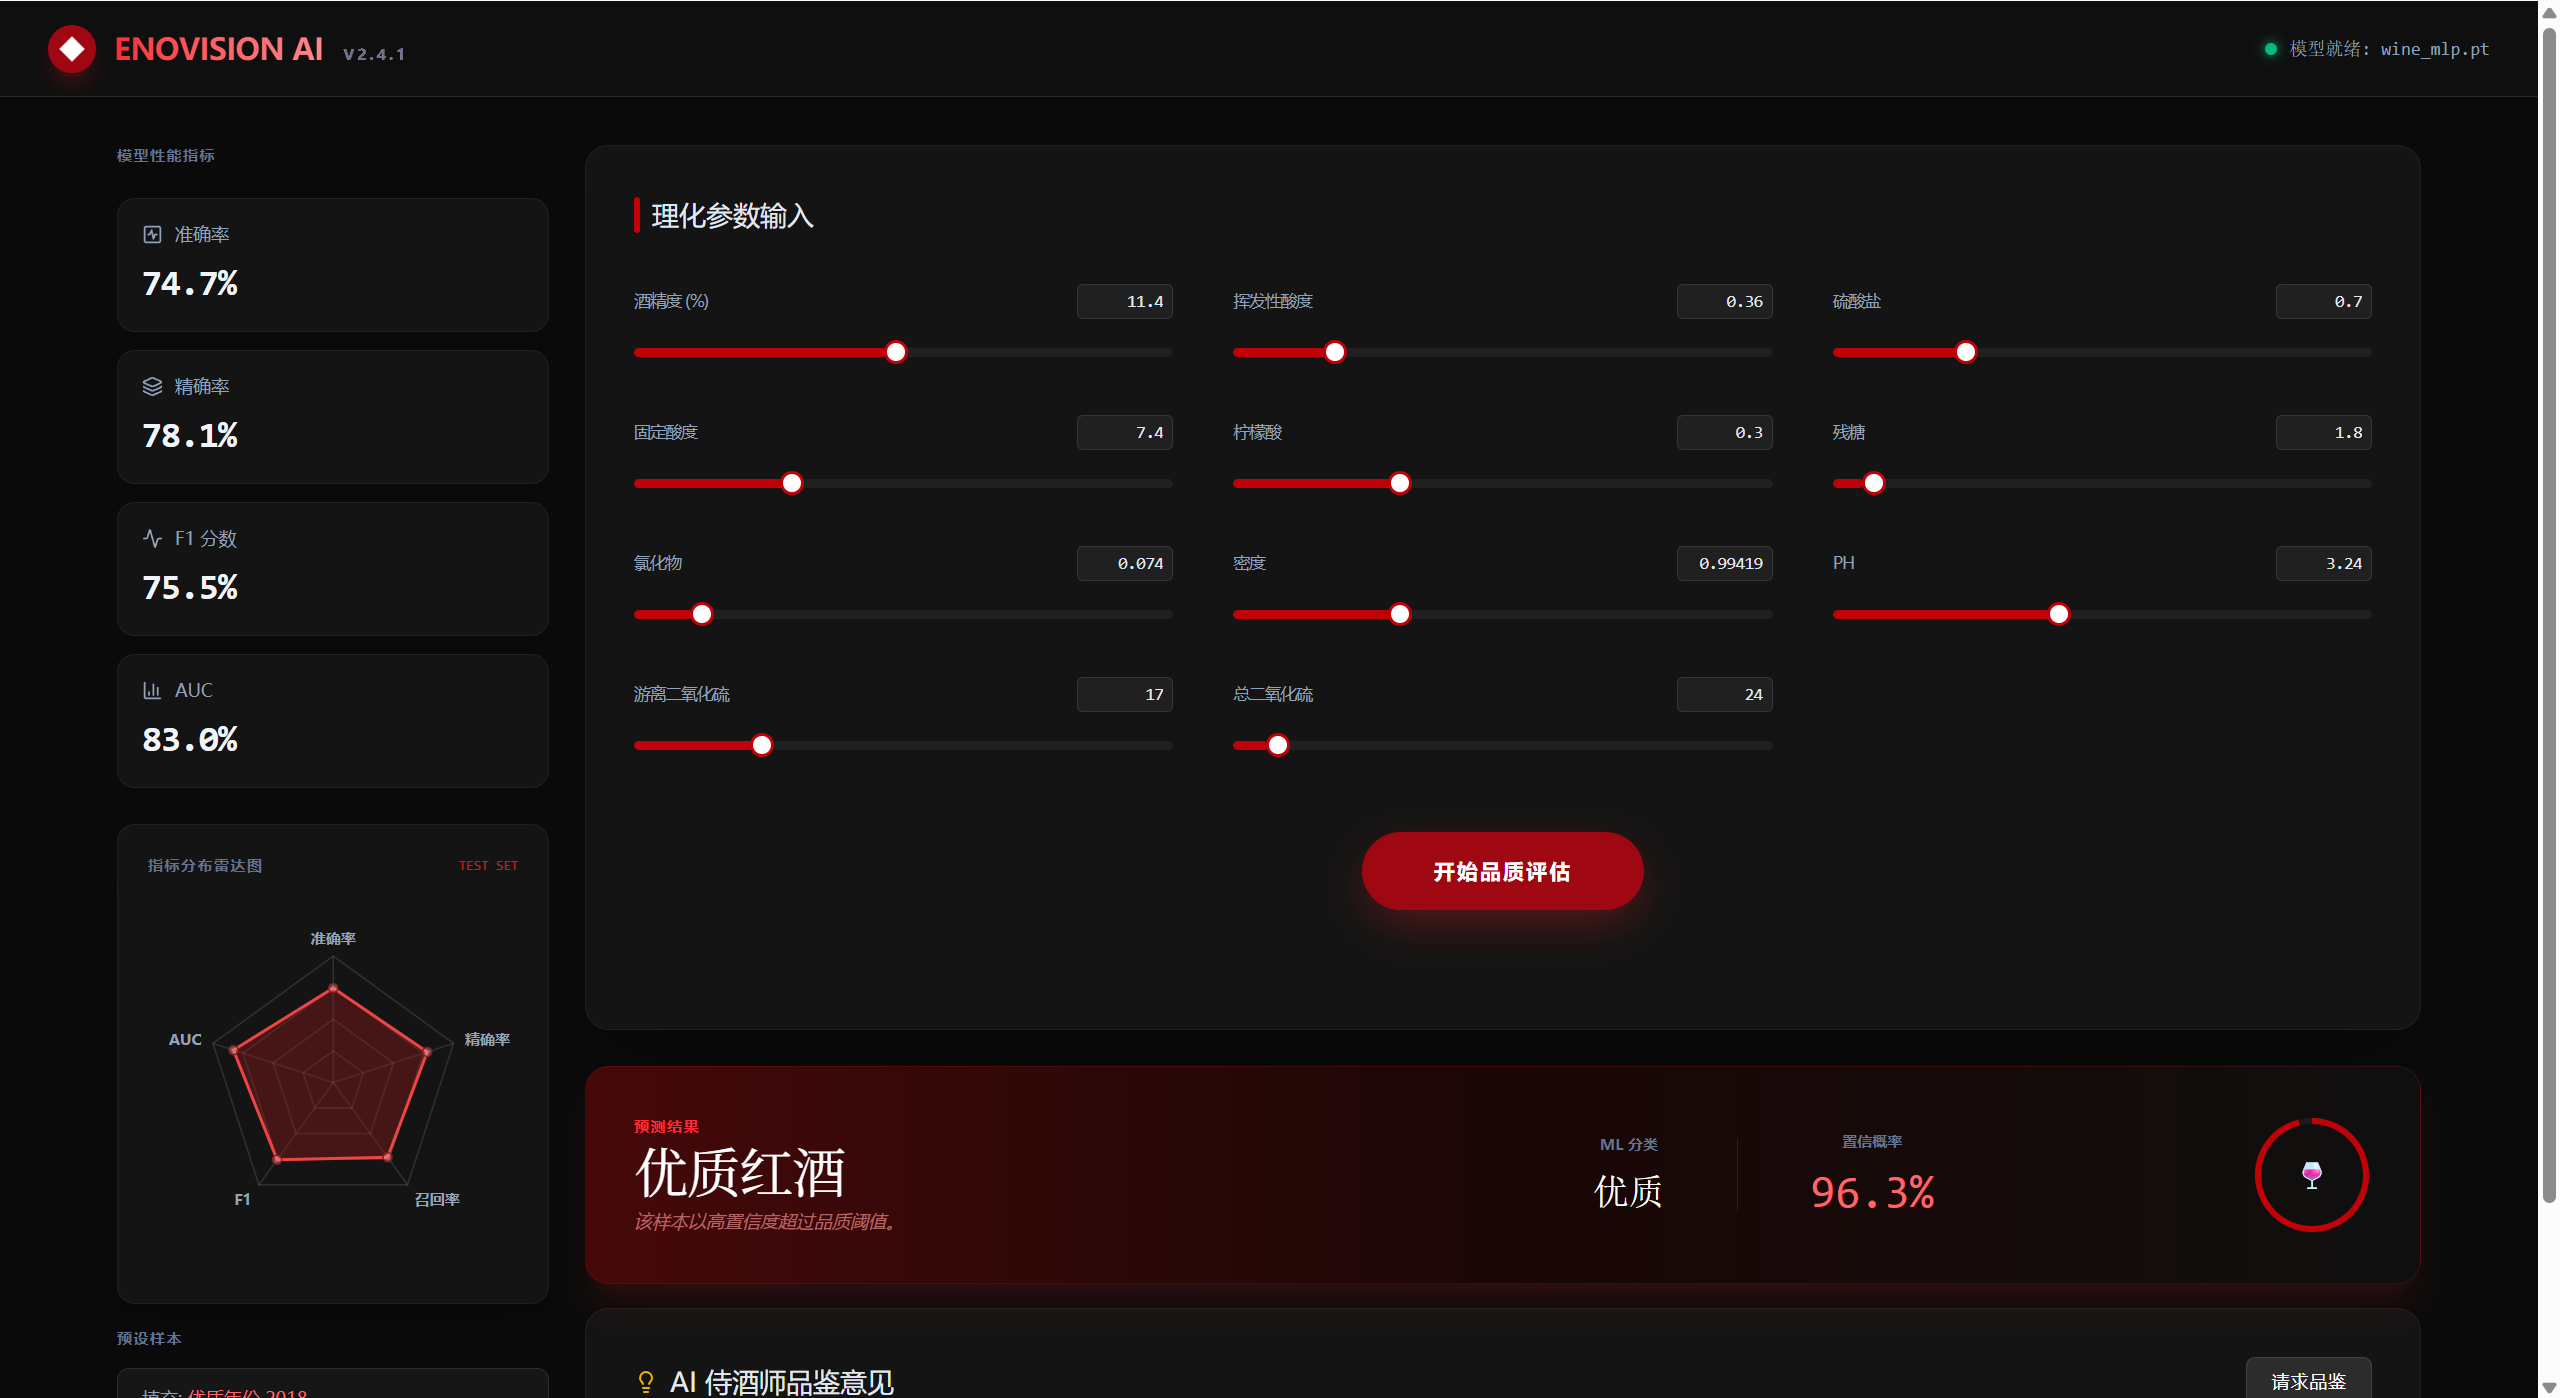
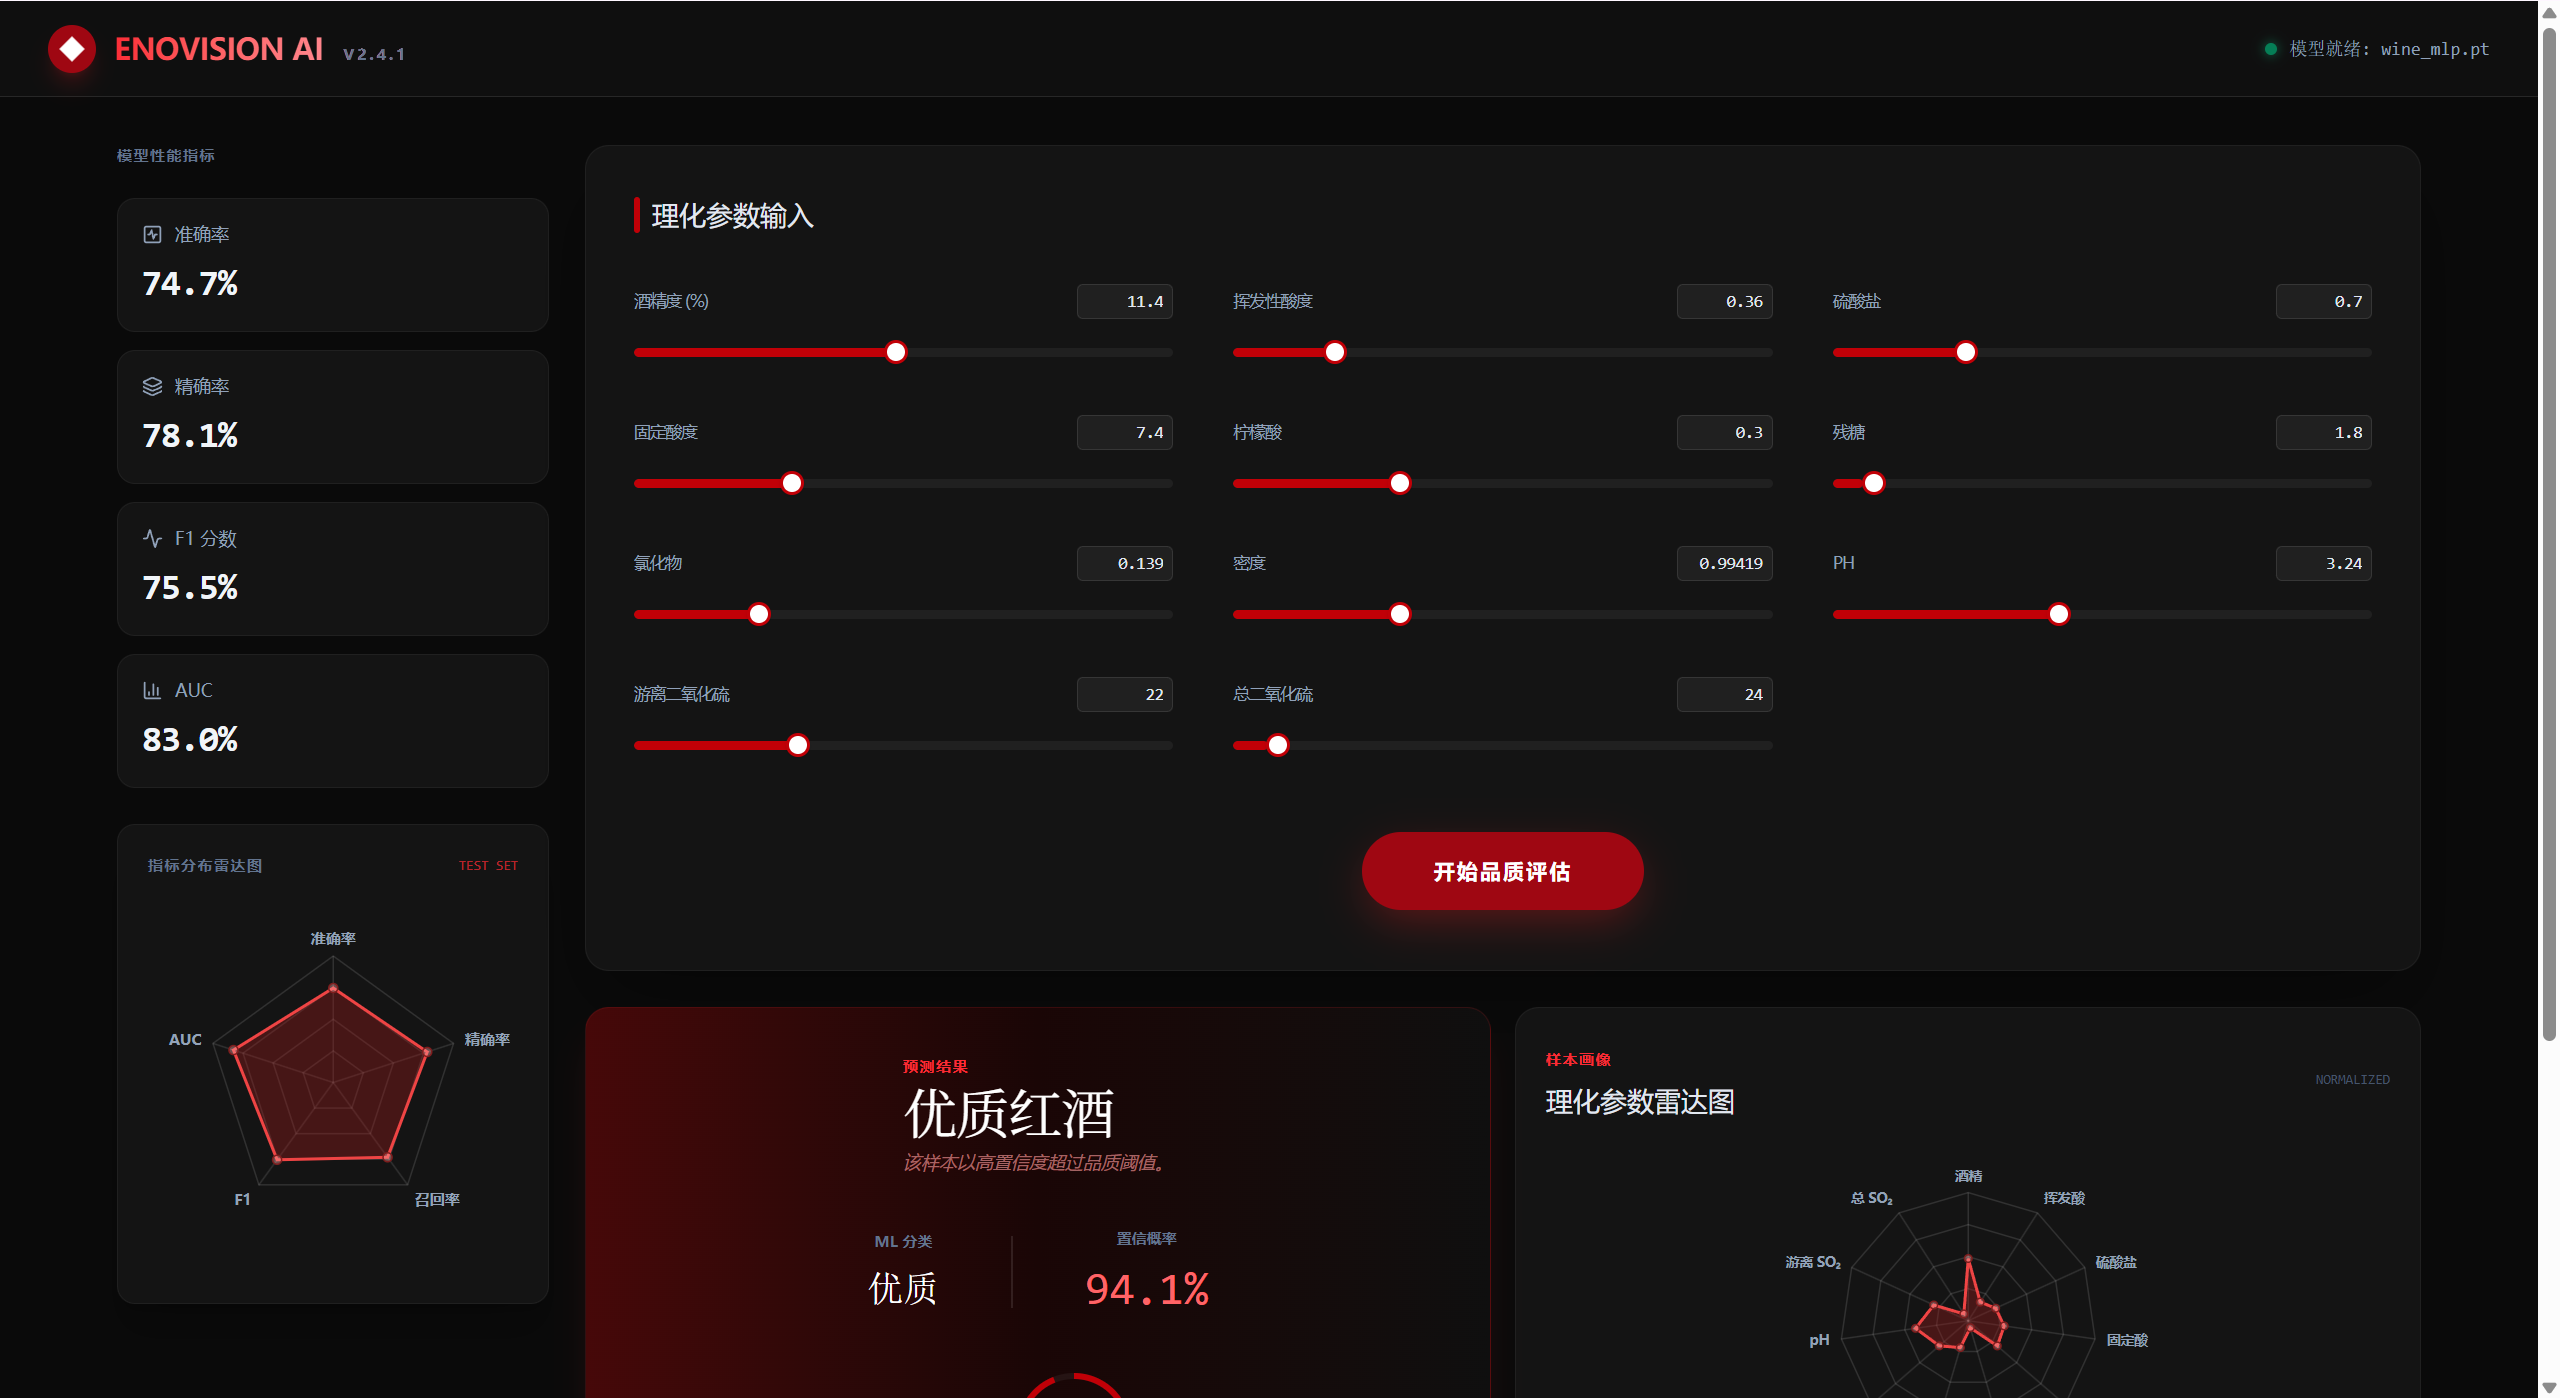
Enhance README with product overview and demo details

diff --git a/README.md b/README.md
@@ -1,84 +1,159 @@
-# Vinum AI - Wine Quality Predictor
+# Vinum AI · 红酒品质智能评估系统
 
-## 项目简介
+> 一个融合机器学习预测、数据可视化与大模型品鉴建议的全栈 AI 项目。
 
-本项目为红酒品质二分类预测器，基于 PyTorch 神经网络，输入红酒的 11 项理化指标（酸度、糖分、酒精度、pH 值等）进行品质预测。前端使用 React 搭建交互式控制面板，通过滑块调节各项指标参数；后端使用 FastAPI 提供推理接口；并接入 DeepSeek API，根据预测结果生成 AI 品鉴意见。
+Vinum AI 以红酒的 11 项理化参数为输入，通过 PyTorch 神经网络判断样本是否达到优质红酒标准，并使用雷达图解释模型性能与样本特征。完成预测后，系统还可以调用 DeepSeek，根据化学指标和模型结果生成自然语言品鉴与餐酒搭配建议。
 
-**主要功能**
-- PyTorch 神经网络：二分类预测红酒品质
-- React 控制面板：滑块调节 11 项理化指标，实时查看预测结果
-- 数据可视化：模型指标分布雷达图与预测置信度展示
-- AI 品鉴：通过 DeepSeek API 自动生成品鉴评语
+这个项目不仅实现了“训练一个模型”，还覆盖了数据处理、模型评估、API 服务、交互界面、AI 能力接入、自动化测试和容器化配置，形成了可以实际运行和演示的完整产品闭环。
 
-**技术栈**
-- 前端：React 19 + Tailwind CSS 4 + Recharts + Radix UI
-- 后端：FastAPI + PyTorch + scikit-learn
-- AI：DeepSeek API（OpenAI 兼容格式）
-- 中间层：Express（TypeScript）+ Vite
+## 项目演示
+
+### 1. 输入理化指标，快速完成品质分类
+
+用户可以通过滑块或数字输入调整酒精度、酸度、残糖、pH、硫酸盐等 11 项指标。界面同步展示测试集模型指标，并将 Accuracy、Precision、Recall、F1 和 AUC 汇总为性能雷达图。
+
+![优质红酒预测界面：理化参数输入、模型指标和优质红酒预测结果](./优质红酒.png)
+
+系统会返回“优质红酒”或“普通红酒”的分类结果，并展示样本属于优质类别的模型输出概率。预测结果旁的理化参数雷达图会把不同量纲的指标归一化，帮助用户直观看到当前样本的化学特征轮廓。
+
+### 2. 对普通样本给出清晰、可解释的结果
+
+同一套交互流程也适用于普通红酒样本。系统不会只显示一个标签，而是同时呈现优质类别概率和当前样本画像，让预测结果更容易理解。
+
+![普通红酒预测界面：普通类别结果及理化参数雷达图](./普通红酒.png)
+
+### 3. 结合 DeepSeek 生成 AI 品酒建议
+
+在机器学习预测的基础上，用户可以进一步请求 AI 侍酒师分析。DeepSeek 会结合具体理化参数、分类结果和模型输出概率，生成关于口感、结构、香气及餐酒搭配的中文建议。
+
+![基于 DeepSeek 生成的 AI 侍酒师品鉴意见](./基于Deepseek的AI品酒建议.png)
+
+## 我在项目中完成了什么
+
+- **机器学习建模**：使用 PyTorch 搭建包含 BatchNorm、ReLU 和 Dropout 的多层感知机，完成红酒品质二分类。
+- **可信训练流程**：采用分层的训练集、验证集、测试集划分；验证集负责选择最佳 F1 模型，测试集只用于最终评估。
+- **可复现性控制**：统一设置 Python、NumPy、PyTorch 与 DataLoader 随机种子，并仅使用训练集拟合 StandardScaler。
+- **全栈产品实现**：使用 FastAPI 提供推理与指标接口，使用 React + TypeScript 构建可交互的预测控制台。
+- **数据可视化**：通过 Recharts 展示模型性能雷达图和 11 项理化参数雷达图。
+- **大模型能力接入**：通过 Express 中间层调用 DeepSeek API，将结构化预测结果转化为易读的品鉴建议。
+- **工程质量建设**：增加输入范围校验、前端异常处理、pytest、Ruff、GitHub Actions、Dockerfile 与 Docker Compose。
+
+## 模型效果
+
+当前仓库内模型使用独立测试集评估，指标文件与保存的最佳模型来自同一次训练流程。
+
+| 指标 | 测试集结果 | 说明 |
+|---|---:|---|
+| Accuracy | 74.7% | 所有样本中预测正确的比例 |
+| Precision | 78.1% | 预测为优质的样本中，实际为优质的比例 |
+| Recall | 73.1% | 实际优质样本中，被模型识别出来的比例 |
+| F1 | 75.5% | Precision 与 Recall 的综合表现 |
+| AUC | 83.0% | 模型区分优质与普通样本的整体能力 |
+
+> 界面中的概率表示模型输出的“优质类别概率”，分类阈值为 50%。它用于表达模型倾向，不等同于经过严格概率校准后的现实发生概率。
+
+## 技术架构
+
+```mermaid
+flowchart LR
+    A["React 交互界面"] --> B["Express 中间层"]
+    B --> C["FastAPI 推理服务"]
+    C --> D["PyTorch MLP 模型"]
+    C --> E["StandardScaler"]
+    B --> F["DeepSeek API"]
+    D --> B
+    F --> A
+```
+
+| 模块 | 技术选型 |
+|---|---|
+| 前端 | React 19、TypeScript、Tailwind CSS 4、Motion、Recharts、Radix UI |
+| 中间层 | Express、Vite、TypeScript |
+| 后端 | FastAPI、Pydantic、Uvicorn |
+| 机器学习 | PyTorch、scikit-learn、pandas、NumPy、joblib |
+| AI 品鉴 | DeepSeek API（OpenAI 兼容接口） |
+| 工程化 | pytest、Ruff、GitHub Actions、Docker Compose |
 
 ## 项目结构
 
+```text
+WineQualityPredictor/
+├── backend/
+│   ├── data/                 # 红酒数据集
+│   ├── src/                  # 数据处理、模型、训练、评估和 FastAPI 服务
+│   ├── tests/                # 后端自动化测试
+│   ├── metrics.json          # 最佳模型在独立测试集上的指标
+│   └── Dockerfile
+├── frontend/
+│   ├── src/                  # React 界面与类型定义
+│   ├── server.ts             # API 代理与 DeepSeek 接入
+│   └── Dockerfile
+├── .github/workflows/ci.yml  # 自动化检查与构建
+├── docker-compose.yml
+└── start.bat                 # Windows 一键启动
 ```
-├── frontend/          # React + Vite + Express (TypeScript)
-│   ├── src/           # React 组件与类型定义
-│   ├── server.ts      # Express 中间层 (API 代理 + AI 侍酒师)
-│   └── package.json
-├── backend/           # Python ML 后端
-│   ├── src/           # PyTorch 模型、训练脚本、FastAPI 服务
-│   ├── data/          # 红酒数据集
-│   └── requirements.txt
-├── start.bat          # Windows 一键启动脚本
-└── README.md
+
+## 快速体验
+
+### Windows 一键启动
+
+准备 Python 3.9+ 和 Node.js 18+，双击运行：
+
+```text
+start.bat
 ```
 
-## 快速开始
+脚本会自动检查依赖、按需训练模型、启动后端并验证健康状态，随后在 `http://localhost:3000` 提供前端页面。
 
-### 前置条件
+如需使用 AI 品鉴功能，请复制 `frontend/.env.example` 为 `frontend/.env`，并填写：
 
-- Python 3.9+
-- Node.js 18+
-
-### 一键启动 (Windows)
-
-双击运行 `start.bat`
+```env
+DEEPSEEK_API_KEY=your_api_key_here
+```
 
 ### 手动启动
 
-**1. 后端 (Python)**
-
-```bash
+```powershell
+# 后端
 cd backend
 python -m venv venv
-venv\Scripts\activate       # Windows
+venv\Scripts\activate
 pip install -r requirements.txt
-
-# 训练模型
 python -m src.train
-
-# 启动 FastAPI 服务 (port 8000)
 python -m uvicorn src.main:app --host 0.0.0.0 --port 8000
+
+# 前端（新终端）
+cd frontend
+npm install
+npm run dev
 ```
 
-**2. 前端 (Node.js)**
+### Docker Compose
 
 ```bash
-cd frontend
-cp .env.example .env        # 编辑 .env 填入 API Key
-npm install
-npm run dev                  # 启动开发服务器 (port 3000)
+docker compose up --build
 ```
 
-打开浏览器访问 `http://localhost:3000`
+## 工程质量
 
-## 技术栈
+```bash
+# 后端测试与代码检查
+cd backend
+pytest -q
+ruff check src tests
 
-| 层 | 技术 |
-|---|------|
-| 前端 UI | React 19, Tailwind CSS 4, Radix UI, Recharts, Motion |
-| 中间层 | Express (TypeScript), Vite |
-| ML 后端 | PyTorch, FastAPI, scikit-learn |
-| AI 品鉴 | DeepSeek API (OpenAI 兼容) |
+# 前端类型检查与生产构建
+cd frontend
+npm run lint
+npm run build
+```
 
-## 📄 许可
+GitHub Actions 会在 push 和 pull request 时自动执行上述核心检查。
 
-本项目基于 [MIT License](LICENSE) 开源。
+## 项目价值
+
+Vinum AI 展示了我将算法能力转化为可交互产品的完整实践：从数据划分和模型选择，到 API 设计、输入校验、可视化表达，再到大模型集成与工程化交付。相比只停留在 Notebook 中的模型实验，这个项目更关注结果是否可信、用户是否看得懂，以及系统能否稳定运行和持续维护。
+
+## License
+
+本项目基于 [MIT License](./LICENSE) 开源。
